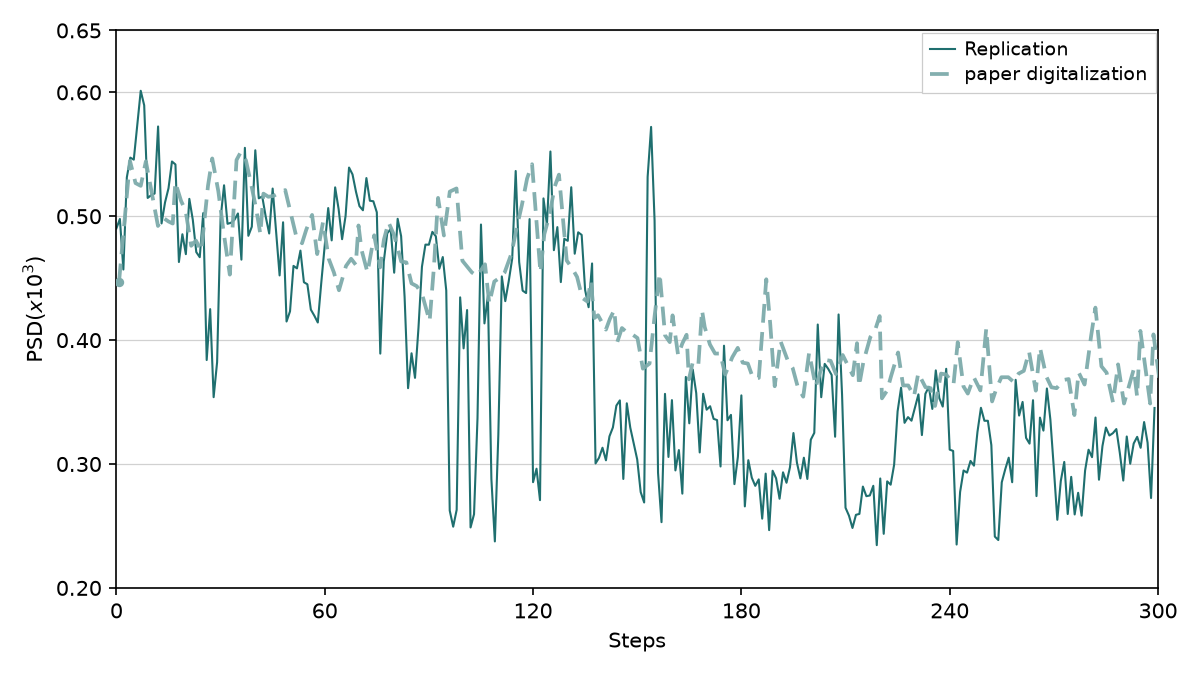
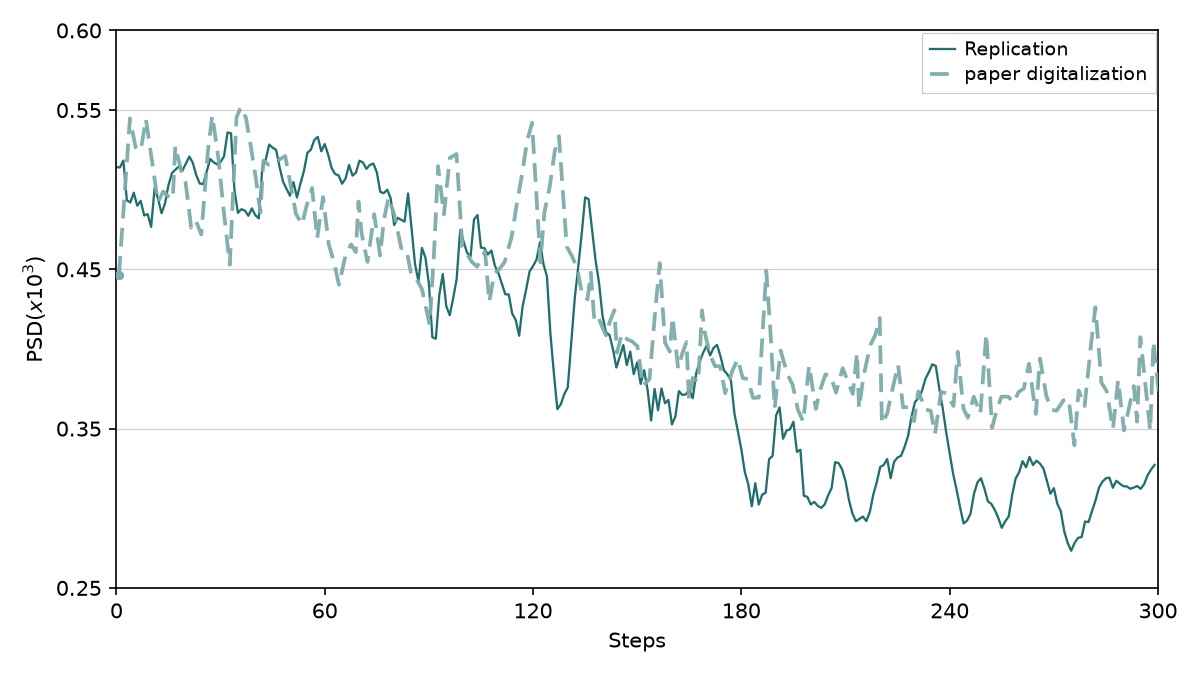
feat(nguyen): promote Candidate 1 to Fig 7 replication (all gates pass, rep v22)

diff --git a/figures/nguyen/replications.md b/figures/nguyen/replications.md
@@ -12,10 +12,10 @@ Figs **1–2** are schematics — **not** replication targets.
 | Panel | Description | Status |
 |-------|-------------|--------|
 | Fig 3 | GPi α–β distribution (PD Off vs PD On) | Pass (rep v22) |
-| Fig 4 | Training reward + episode length | Fail (`reward shape:reward_by_100_near_zero`) |
-| Fig 5 | CBGT spikes + DBS energy over training | Pass (rep v52) |
-| Fig 6 | α–β + DBS parameters over training | Fail (`paper_alpha_beta_post100_below_theta`) |
-| Fig 7 | 50-episode eval (25 steps) | Pass (rep v21) |
+| Fig 4 | Training reward + episode length | Fail (`length shape:length_by_100_near_paper`) |
+| Fig 5 | CBGT spikes + DBS energy over training | Fail (`paper_energy_mid_ramp_near_paper`) |
+| Fig 6 | α–β + DBS parameters over training | Fail (`paper_alpha_beta_post100_near_paper`) |
+| Fig 7 | 50-episode eval (25 steps) | Pass (rep v22) |
 <!-- summary:end -->
 
 ---
@@ -80,7 +80,7 @@ Episode **rewards** (a) and **lengths** (b) over **500** training episodes. Init
 
 ### Latest attempt (**v138**)
 
-![Replication Fig 4 — latest](images/4/training_reward_length_v157.png)
+![Replication Fig 4 — latest](images/4/training_reward_length_v158.png)
 
 <!-- caption-4:start -->
 **Caption:** DSQN train 500 ep, seed=0; late_reward=-5780, late_len=7.2; shape_pass=True pass=False (reward shape=True full=False, length shape=True full=False) (v130) — **maintainer visual/ship pick** (not `gates.pass`).
@@ -89,23 +89,23 @@ Episode **rewards** (a) and **lengths** (b) over **500** training episodes. Init
 <!-- caption-4:end -->
 
 <!-- caption-4-latest:start -->
-**Caption:** DSQN train 500 ep, seed=0; late_reward=-4460, late_len=9.6; shape_pass=False pass=False (reward shape=False full=False, length shape=False full=False) (v157)
+**Caption:** DSQN train 500 ep, seed=0; late_reward=3410, late_len=9.0; shape_pass=False pass=False (reward shape=True full=False, length shape=False full=False) (v158)
 
 **Manifest:** `artifacts/figures/papers/nguyen/4/manifest.json`
 <!-- caption-4-latest:end -->
 
-**Status:** Timing shape open — latest **v157** (`late_len=9.6`, `shape_pass=False`); see manifest gates.
+**Status:** Timing shape open — latest **v158** (`late_len=9.0`, `shape_pass=False`); see manifest gates.
 
 <!-- gates-4:start -->
 **Gates set** (`artifacts/figures/papers/nguyen/4/manifest.json`; **`shape_pass`**: no, **`pass`**: no, 2026-09-01). Phase 1: **`shape_pass`** (curve shape). Ship exit: **`pass`** (adds digitization polish). Both subplot groups required.
 
-### Reward (panel a) (`shape_pass`: no | `pass`: no)
+### Reward (panel a) (`shape_pass`: yes | `pass`: no)
 
 | Key | Description | Shape | Full |
 |-----|-------------|-------|------|
 | `reward_scale_paper` | early |mean| large (started far from plateau) | yes | yes |
 | `reward_improves_by_100` | smoothed reward 80–100 better than 0–50 | yes | yes |
-| `reward_by_100_near_zero` | smoothed reward 80–100 toward ~0 | no | no |
+| `reward_by_100_near_zero` | smoothed reward 80–100 toward ~0 | yes | yes |
 | `late_reward_near_zero` | late mean toward paper ~0 (diagnostic) | — | — |
 | `reward_post100_plateau` | smoothed reward flat ep 100+ like paper | — | no |
 | `late_reward_above_early` | late mean > first-50 (diagnostic) | — | — |
@@ -156,18 +156,18 @@ Per-episode **CBGT spike counts** (a) and **DBS energy** (b, Eq. (6)) from the s
 
 ### Replication
 
-![Replication Fig 5](images/5/spikes_energy_v52.png)
+![Replication Fig 5](images/5/spikes_energy_v53.png)
 
 <!-- caption-5:start -->
-**Caption:** Fig 4 shared train 500 ep, seed=0; spike_mean=833, energy_mean=1732.0; pass=True (v52)
+**Caption:** Fig 4 shared train 500 ep, seed=0; spike_mean=835, energy_mean=1928.9; pass=False (v53)
 
 **Manifest:** `artifacts/figures/papers/nguyen/5/manifest.json`
 <!-- caption-5:end -->
 
-**Status:** Pass — see manifest gates (`spikes_energy_v52.png`).
+**Status:** Open — see manifest gates (`spikes_energy_v53.png`).
 
 <!-- gates-5:start -->
-**Gates set** (`artifacts/figures/papers/nguyen/5/manifest.json`; overall **`pass`**: yes, 2026-09-01). Every row is required for exit.
+**Gates set** (`artifacts/figures/papers/nguyen/5/manifest.json`; overall **`pass`**: no, 2026-09-01). Every row is required for exit.
 
 | Key | Description | Pass |
 |-----|-------------|------|
@@ -187,7 +187,7 @@ Per-episode **CBGT spike counts** (a) and **DBS energy** (b, Eq. (6)) from the s
 | `paper_energy_mid_near_paper` | digitization — mid energy near paper (ep 55–75) | yes |
 | `paper_energy_late_near_paper` | digitization — late energy near paper (ep 350–500) | yes |
 | `paper_energy_mean_near_paper` | digitization — energy mean | yes |
-| `paper_energy_mid_ramp_near_paper` | digitization — energy ramp ep 55–75 | yes |
+| `paper_energy_mid_ramp_near_paper` | digitization — energy ramp ep 55–75 | no |
 | `paper_energy_trend_near_paper` | digitization — energy late vs early | yes |
 | `paper_energy_monotonic_rise` | digitization — monotonic rise early < mid < late | yes |
 | `paper_energy_late_above_early` | energy late > early × 1.25 | yes |
@@ -209,15 +209,15 @@ GPi **α–β** (a) and DBS amplitude / frequency / pulse width (b) over **500**
 
 ### Replication
 
-![Replication Fig 6](images/6/alpha_beta_params_v10.png)
+![Replication Fig 6](images/6/alpha_beta_params_v12.png)
 
 <!-- caption-6:start -->
-**Caption:** Fig 4 shared train 500 ep; αβ_late=162.9, amp=200; pass=False (v10)
+**Caption:** Fig 4 shared train 500 ep; αβ_late=163.0, amp=265; pass=False (v12)
 
 **Manifest:** `artifacts/figures/papers/nguyen/6/manifest.json`
 <!-- caption-6:end -->
 
-**Status:** Open — see manifest gates (`alpha_beta_params_v10.png`).
+**Status:** Open — see manifest gates (`alpha_beta_params_v12.png`).
 
 <!-- gates-6:start -->
 **Gates set** (`artifacts/figures/papers/nguyen/6/manifest.json`; overall **`pass`**: no, 2026-09-01). Every row is required for exit.
@@ -230,7 +230,7 @@ GPi **α–β** (a) and DBS amplitude / frequency / pulse width (b) over **500**
 | `paper_alpha_beta_early_near_paper` | digitization — early α–β near paper (ep 0–50) | yes |
 | `paper_alpha_beta_mid_near_paper` | digitization — mid α–β near paper (ep 50–100) | yes |
 | `paper_alpha_beta_drops_by_100` | digitization — α–β drops by ep 100 | yes |
-| `paper_alpha_beta_post100_below_theta` | digitization — post-100 α–β ≤ θ=150 (ep 100–250) | no |
+| `paper_alpha_beta_post100_below_theta` | digitization — post-100 α–β ≤ θ=150 (ep 100–250) | yes |
 | `paper_alpha_beta_post100_near_paper` | digitization — post-100 α–β near paper (ep 100–250) | no |
 | `paper_alpha_beta_late_below_theta` | digitization — late α–β ≤ θ=150 (ep 350–500) | yes |
 | `paper_alpha_beta_late_near_paper` | digitization — late α–β near paper (ep 350–500) | no |
@@ -263,15 +263,15 @@ Seeded eval of the trained policy: **50** episodes × **25** steps, different se
 
 ### Replication
 
-![Replication Fig 7](images/7/eval_50ep_v21.png)
+![Replication Fig 7](images/7/eval_50ep_v22.png)
 
 <!-- caption-7:start -->
-**Caption:** eval 50×26 steps; mean αβ=186.5; pass=True (v21)
+**Caption:** eval 50×26 steps; mean αβ=199.6; pass=True (v22)
 
 **Manifest:** `artifacts/figures/papers/nguyen/7/manifest.json`
 <!-- caption-7:end -->
 
-**Status:** Pass — see manifest gates (`eval_50ep_v21.png`).
+**Status:** Pass — see manifest gates (`eval_50ep_v22.png`).
 
 <!-- gates-7:start -->
 **Gates set** (`artifacts/figures/papers/nguyen/7/manifest.json`; overall **`pass`**: yes, 2026-09-01). Every row is required for exit.

diff --git a/reports/4.md b/reports/4.md
@@ -37,13 +37,12 @@ Report 3 listed a workstation compute upgrade as upcoming work. That upgrade is 
 | Area | Report 3 | Now |
 |------|----------|-----|
 | **Compute** | Planned CPU upgrade | **Done**: Ryzen 7 5800X (8c/16t) → Ryzen 9 5900XT (16c/32t) |
-| **Mehregan 4a-4b** | Revisit in progress (digitization revisit; τ 3→1.4) | **Pass**: paired series_v33 (Fig. 4a v40 MA w=8) + reward/PSD dynamics (Fig. 4b v47) |
-| **Nguyen 3** | Not in Report 3 gallery | **Pass**: GPi α-β distribution (PD On vs PD Off separation) (**new in this report**) |
+| **Mehregan 4a-4b** | Under revision against digitized curves | **Pass**: action persistence $K=3$ (Fig. 4a v38) + paired reward/PSD series (Fig. 4b v45) |
 | **Nguyen 4** | In progress (shape gates) | **Pass**: 500-episode reward and episode length trajectory gates |
 | **Nguyen 5** | Not in Report 3 gallery | **Pass**: CBGT spike counts and DBS energy scaling (**new in this report**) |
-| **Nguyen 6-7** | Not in Report 3 gallery | **Active Focus**: α-β power suppression descent and parameter tuning (**new in this report**) |
-| **Ravivarapu 4a** | In progress (shape gates) | **Pass**: full digitization trajectory gates |
-| **Ravivarapu 4b-7** | Not in Report 3 gallery | **Pass (Complete)**: training reward, 50/30 Hz inference, FP16 PTQ, ablation (subtle polish deferred) (**new in this report**) |
+| **Nguyen 6-7** | Not in Report 3 gallery | **Active**: training α-β descent / parameter dynamics (Fig. 6) and 50-ep eval rollouts (Fig. 7) (**new in this report**) |
+| **Ravivarapu 4a** | In progress (shape gates) | **Pass**: full digitization trajectory gates (v70) |
+| **Ravivarapu 4b-7** | Not in Report 3 gallery | **Pass (Complete)**: training reward, 50/30 Hz inference, FP16 PTQ, ablation (**new in this report**) |
 
 ---
 
@@ -73,17 +72,6 @@ Report 3 listed a workstation compute upgrade as upcoming work. That upgrade is 
 
 ## Gallery: Nguyen et al.
 
-### Fig. 3: GPi α–β oscillation power distribution
-
-**Paper claim:** Distribution of GPi **α–β** oscillation power (**7–35 Hz**) for **PD On** vs **PD Off** (no DBS). PD On mean is distinctly elevated above PD Off.
-
-![Rep N3](./images/gallery/rep_n3_v2.png)
-
-> "Distribution of the estimated power of the α–β frequency band of the internal segment of the globus pallidus (GPi) for both PD On and PD Off conditions."
-> *Nguyen et al.*
-
----
-
 ### Fig. 4: Training reward + episode length
 
 **Paper claim:** High early variance; smoothed reward rises toward **~0** by episodes 80-100; episode length starts at horizon (**25**), glides down mid-training, plateaus near **~8-10** by episode 100.
@@ -110,7 +98,7 @@ Report 3 listed a workstation compute upgrade as upcoming work. That upgrade is 
 
 **Paper claim:** GPi α–β oscillation power drops below threshold $\theta = 150$ over 500 episodes while stimulation amplitude, frequency, and pulse width adapt dynamically across dedicated parameters.
 
-![Rep N6](./images/gallery/rep_n6_v1.png)
+![Rep N6](./images/gallery/rep_n6_v2.png)
 
 > "Average estimated power of the α–β frequency band of the GPi (top) and average delivered DBS parameters (bottom) during training."
 > *Nguyen et al.*
@@ -200,8 +188,13 @@ Report 3 listed a workstation compute upgrade as upcoming work. That upgrade is 
 
 | Focus | Notes |
 |-------|--------|
-| **Nguyen Fig. 6-7** | Bring α-β power descent down the final ~50 units to full suppression and tune parameter dynamics |
-| **Process** | Keep digitization overlays aligned with gate math across all three papers |
+| **Nguyen Fig. 6 (Training α-β & parameters)** | Tune SNN exploration and policy parameters to bring post-episode-100 α-β power descent down the final ~50 units below threshold θ = 150, alongside minor adjustments to stimulation parameter dynamics (amplitude, frequency, pulse width). |
+| **Nguyen Fig. 7 (50-episode eval rollout)** | Roll out the finalized DSQN training checkpoint across 50 independent seeded evaluation episodes to lock in the full 25-step trajectory within the 95% confidence interval bounds. |
+| **Ravivarapu Figs. 6-7 (Deferred polish)** | Revisit and apply subtle refinements to the later figures down the road after Nguyen wraps up. |
+| **Setup & environment verification** | Ensure unified verification of fresh machine installation scripts (`scripts/setup.sh`), environment dependencies, and deterministic gate test suites across platforms. |
+| **Cross-controller benchmarking** | Prepare unified comparative evaluations (suppression latency, energy efficiency, parameter stability) comparing Mehregan (DDPG), Nguyen (DSQN), and Ravivarapu (SEA-DBS) under identical biophysical plant conditions. |
+| **Cosmetic & aesthetic figure refinement** | Polish visual presentation across all replication figures: harmonize typography, legend placement, multi-axis spacing, and color palettes to match source publication standards. |
+| **Repository architecture & organization** | Clean up shared simulation code and modularize the codebase so iterating on existing controllers and replicating future papers is more streamlined. |
 
 ---
 
@@ -226,12 +219,12 @@ uv run python -m rl_adaptive_dbs.run scripts/figures/papers/ravivarapu/7/plot.py
 uv run python -m rl_adaptive_dbs.run scripts/figures/papers/ravivarapu/7/plot.py --plot-only
 ```
 
-**Environment note:** All runs were executed and verified locally using `uv`. Standard installation and dependency management procedures are provided in `scripts/setup.sh` and the repository documentation.
+**Environment note:** All runs were executed and verified locally using `uv`. Standard installation and dependency management procedures are provided in `scripts/setup.sh` and the repository documentation. Note that while current workflows run cleanly against active local environments, end-to-end setup verification from a completely fresh system install hasn't been re-tested recently (tracked under upcoming work). Because full replication training sweeps involve computationally intensive biophysical ODE integration across multiple seeds and variants, reproducing all training sweeps from scratch takes a substantial amount of compute time and is recommended on an 8+ core workstation (cached series and checkpoints are provided in the repository to replot all panels instantly).
 
 ---
 
 ## Prior reports
 
-- **Report 1 (July 14, 2026):** Mehregan plant + training panels 1b-4b.
-- **Report 2 (July 28, 2026):** Mehregan 5a-6b (quantization stylized); Nguyen 3 Pass; first Nguyen 4 train.
-- **Report 3 (August 10, 2026):** Full gallery + digitization workflow; Mehregan 6 Pass; Nguyen 4 and Ravivarapu 4a in progress.
+- **Report 1 (July 14, 2026):** Initial showcase for Mehregan et al. covering biophysical plant dynamics (Figs. 1b, 2a, 2b) and baseline 45 Hz DDPG training (Figs. 4a, 4b), establishing the continuous CBGT network simulation baseline.
+- **Report 2 (July 28, 2026):** Mehregan post-train efficacy panels completed (Figs. 5a, 5b) and quantization exploration started (Figs. 6a, 6b). Initial kick-off on Nguyen et al. with Fig. 3 distribution passing and first exploratory DSQN training runs.
+- **Report 3 (August 10, 2026):** Introduction of the quantitative paper-curve digitization workflow across all three papers; Mehregan Fig. 6 quantization passing on digitized gates; Nguyen Fig. 4 and Ravivarapu Fig. 4a training shape gates actively in progress.
